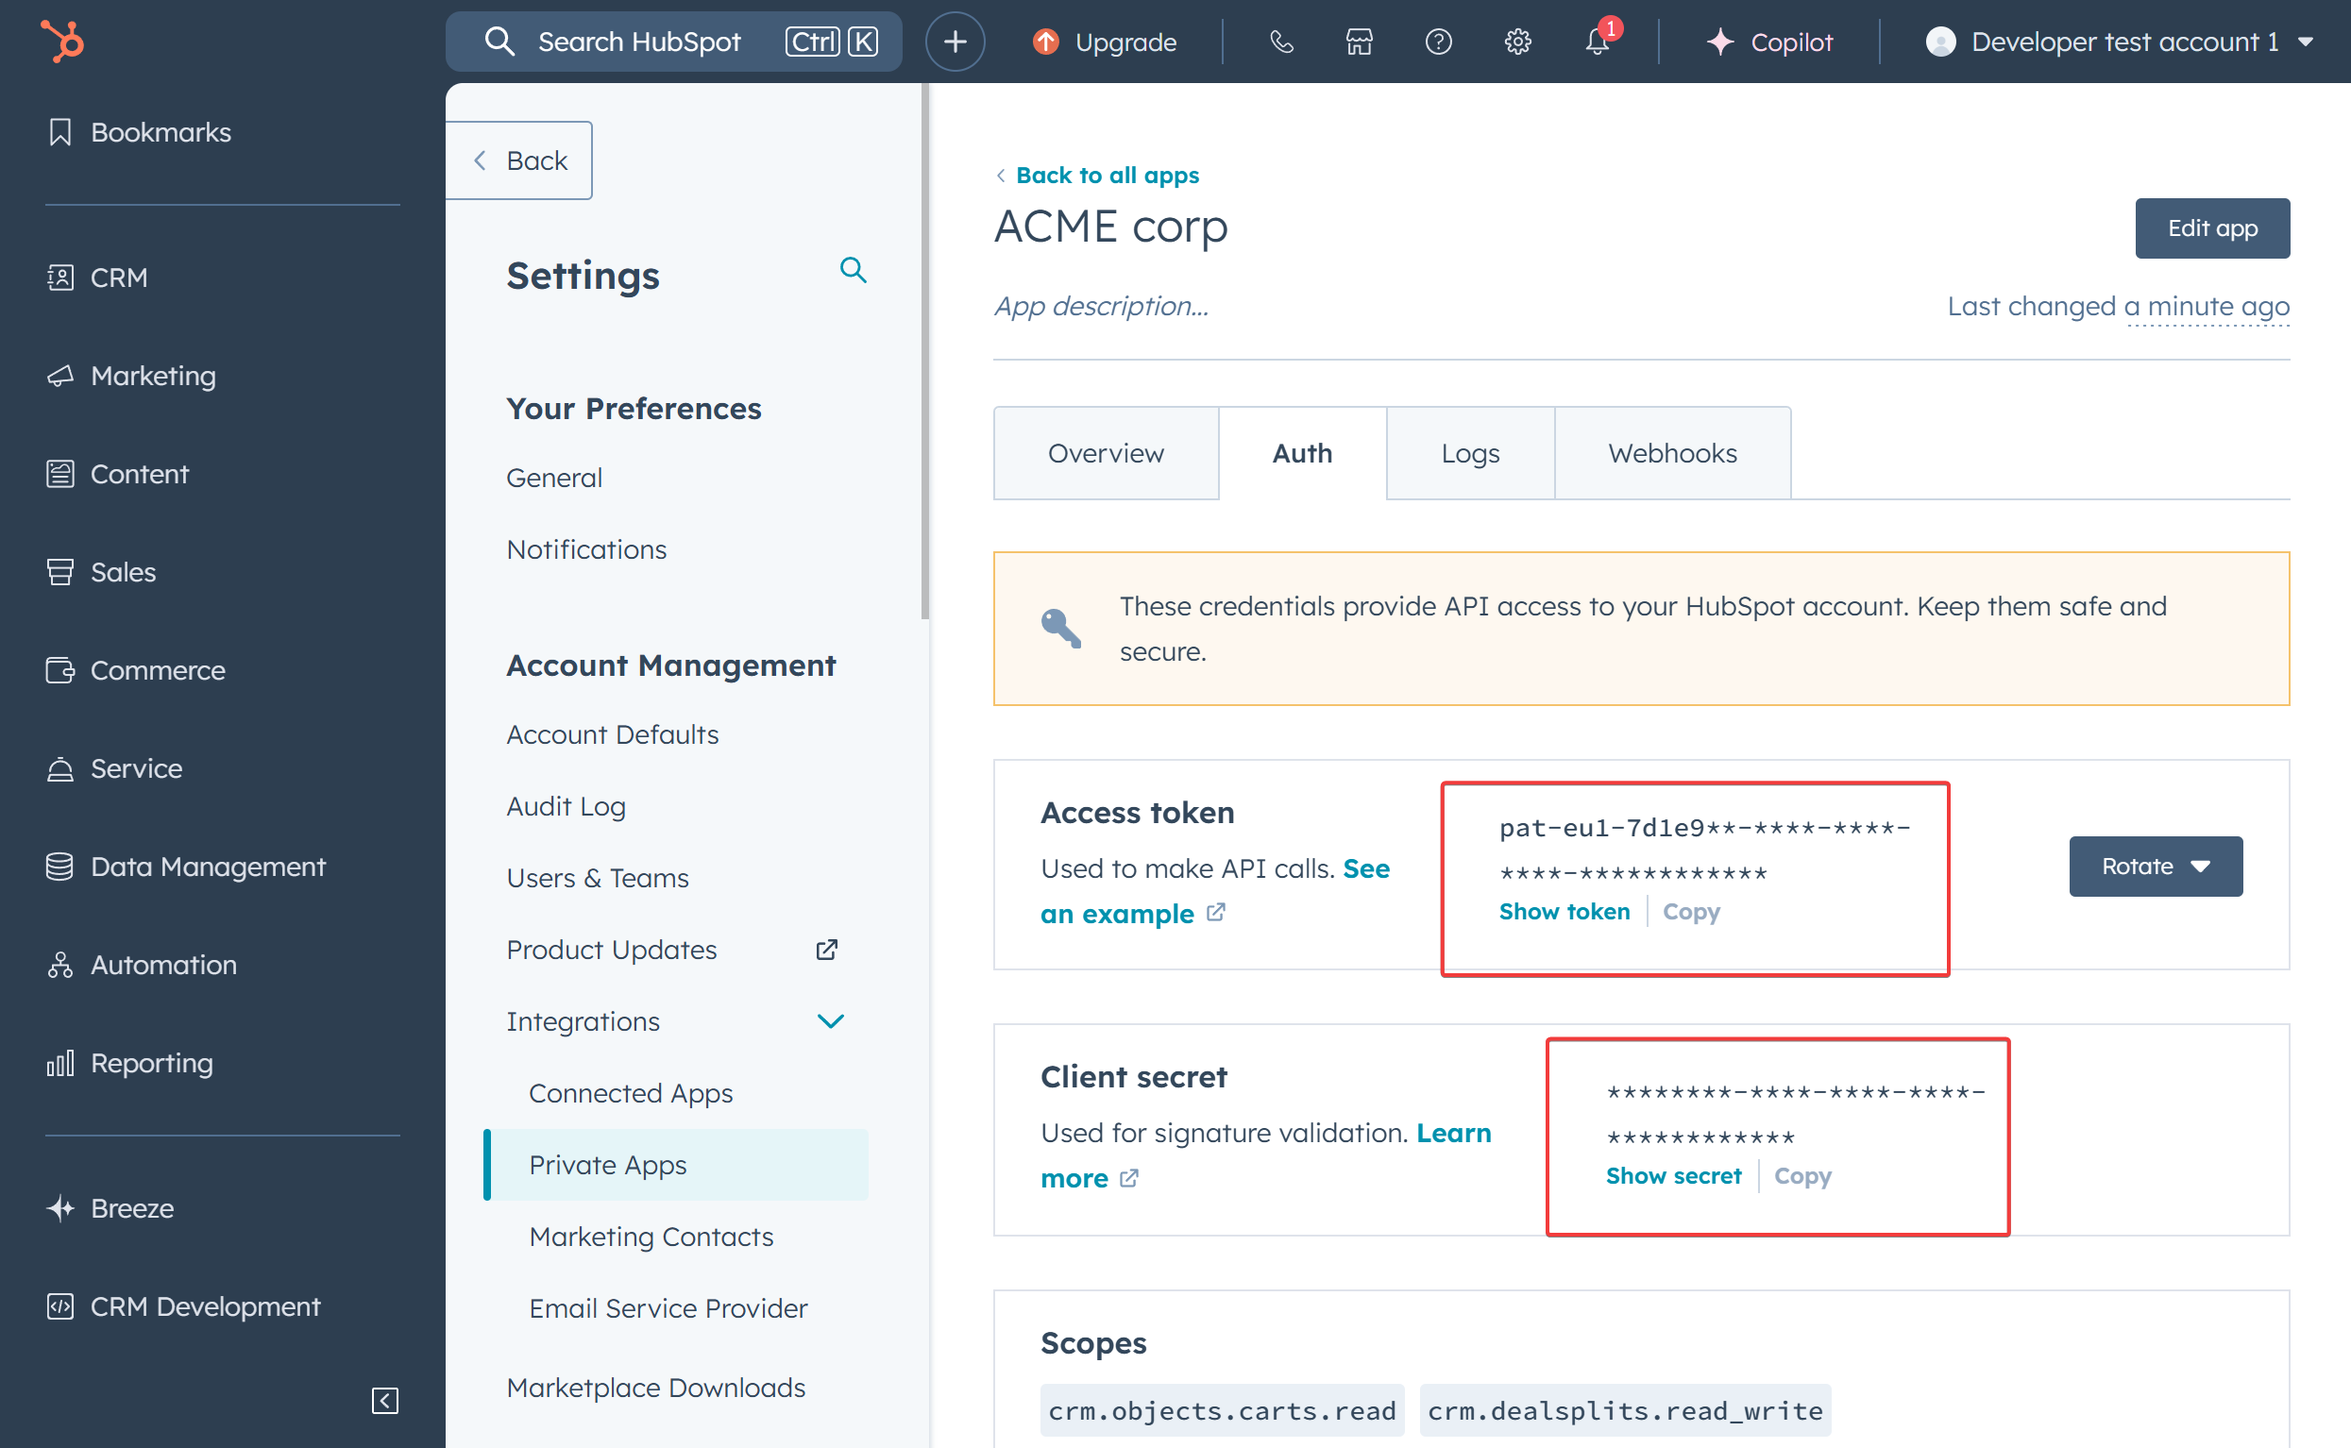
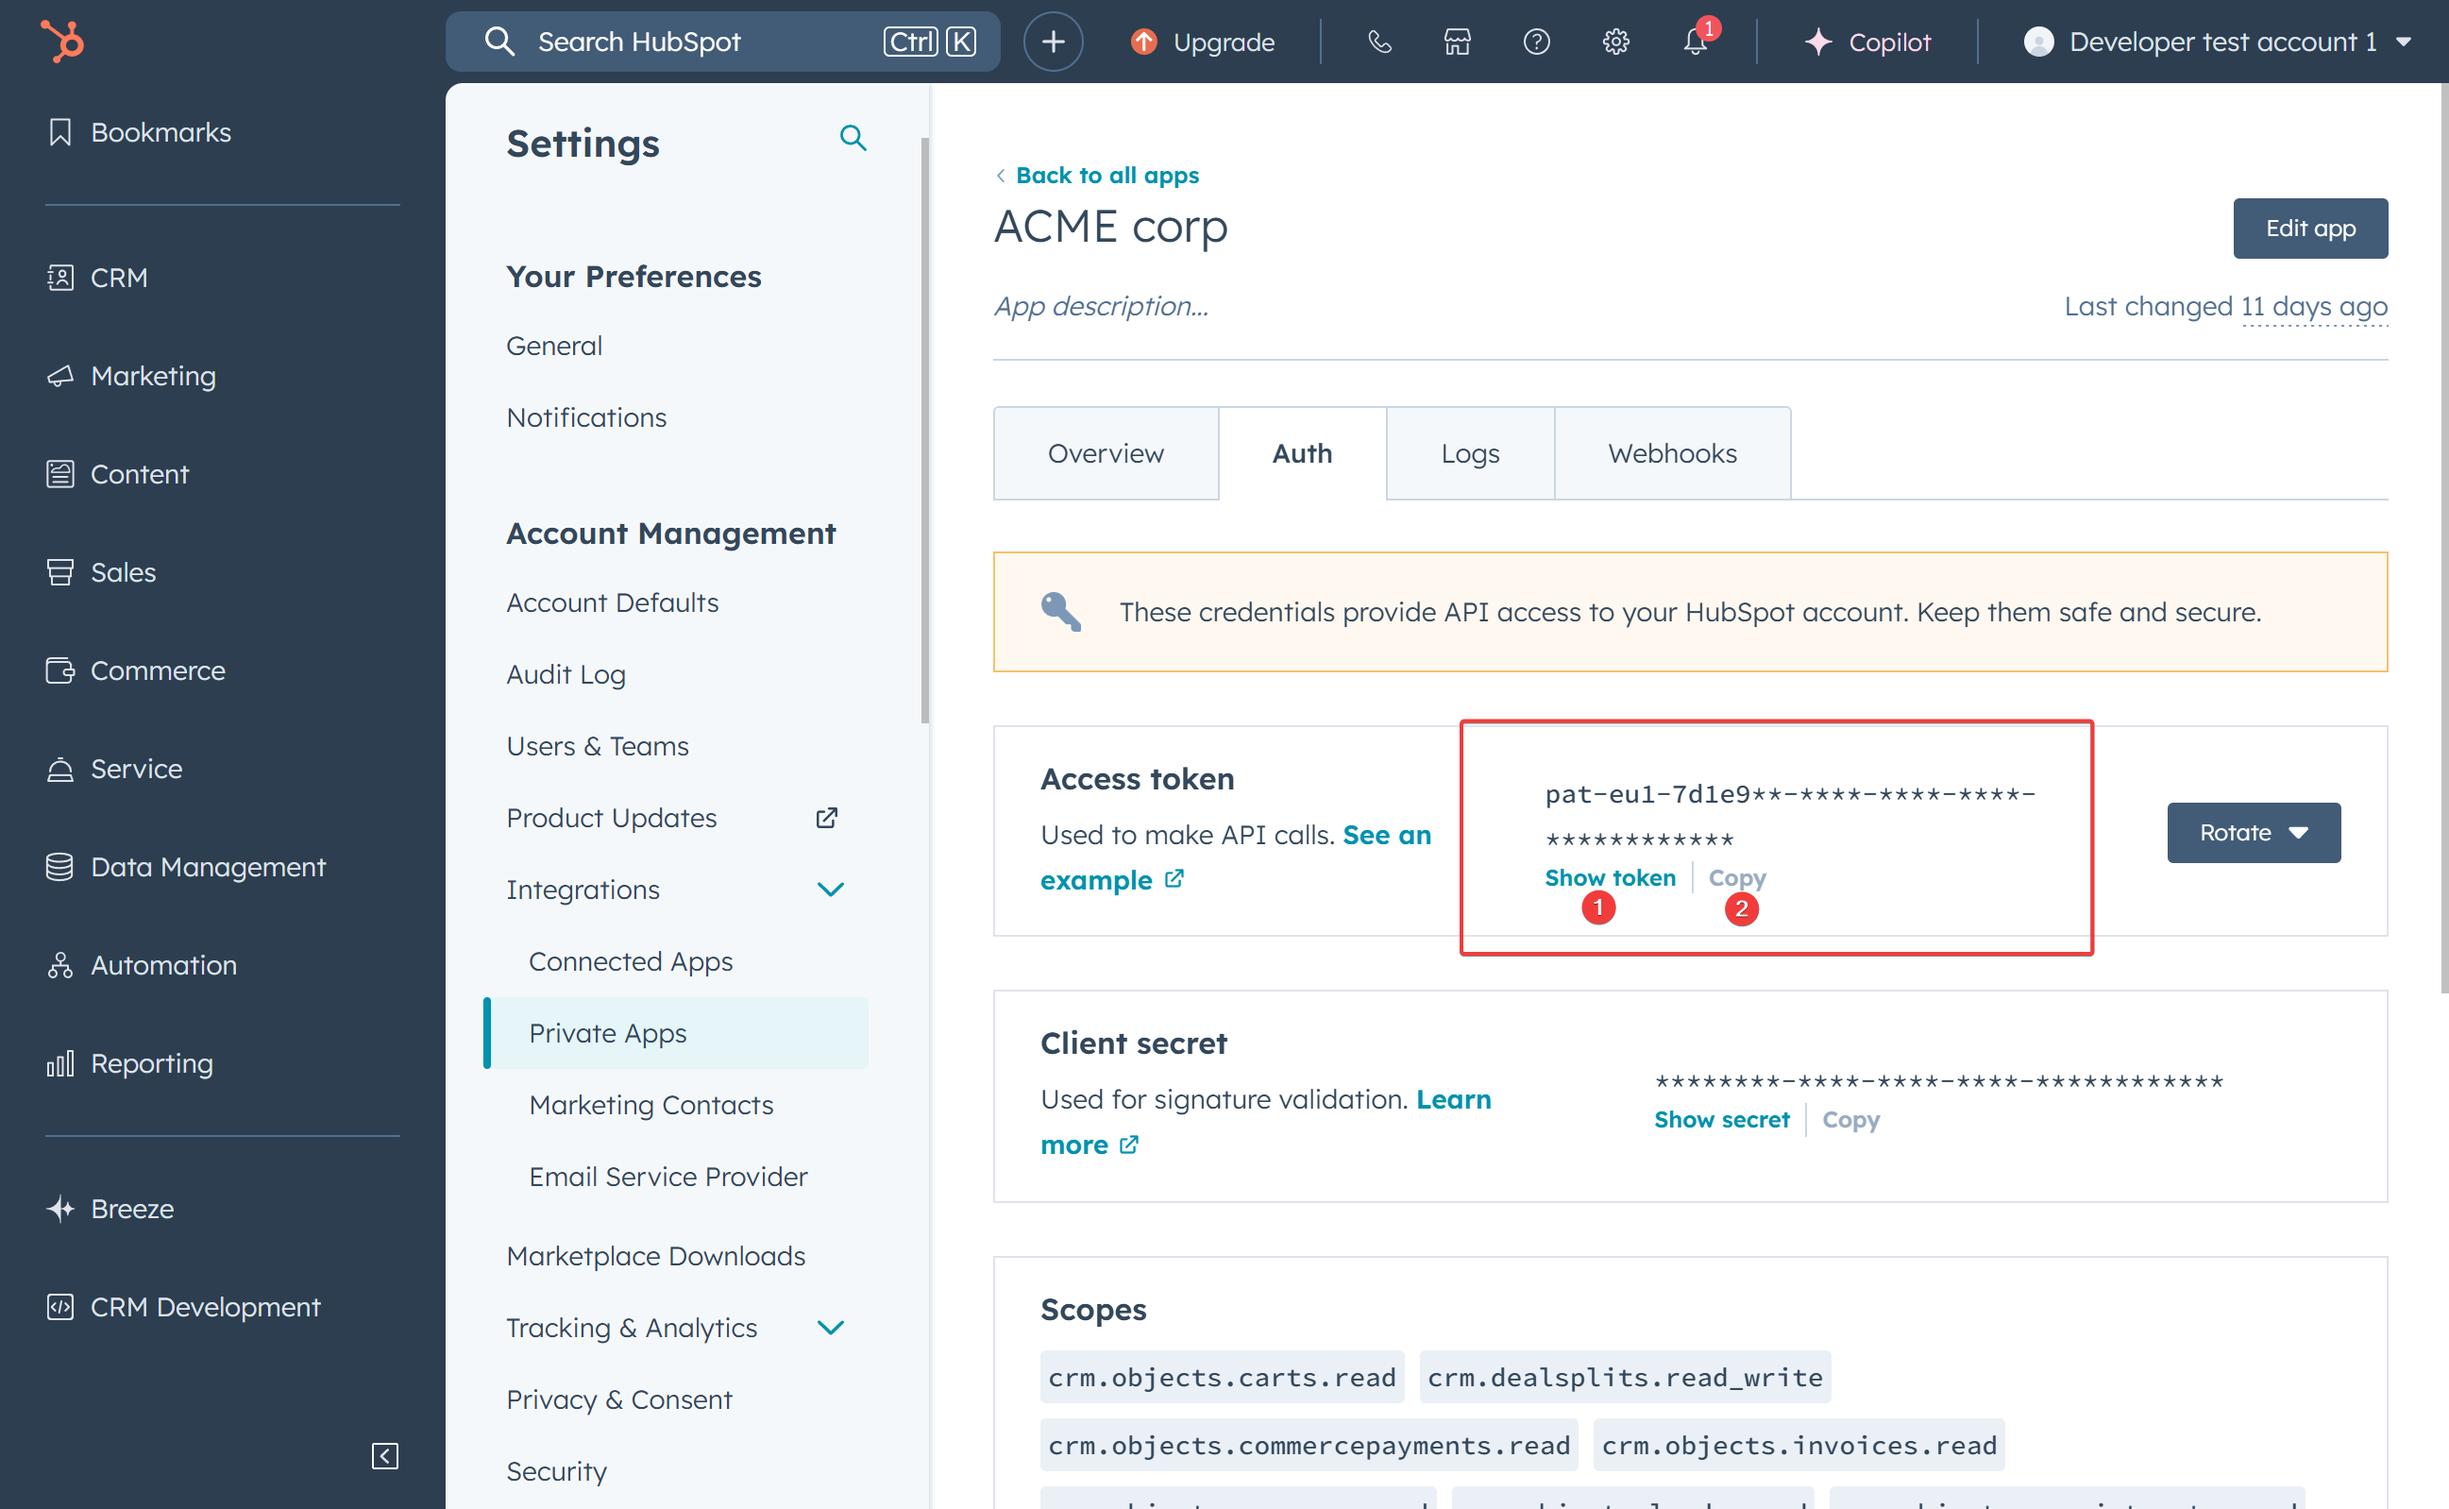
feat: adding new screeshots

diff --git a/docs/Integrations/Hubspot.md b/docs/Integrations/Hubspot.md
@@ -254,7 +254,7 @@ Yes, it’s a few extra clicks — but it’s easy. Just check the boxes and you
 
 6. **You'll see the Access Token and Client Secret (needed for later)**
    - This is super important!
-   - leave this page open to use these two keys later
+   - leave this page open to use this key later
 
 ![Access Token](/img/hubspot-integration/click-on-auth.png)
 ![Access Token](/img/hubspot-integration/access-token-copiying.png)
@@ -318,33 +318,16 @@ Now we'll connect your shiny new HubSpot app to TurboDocx. This is like introduc
 
 6. **Enter your Access Token**
    - Copy the Access Token from your HubSpot private app page and paste it here
-   - Copy the Client Secret from your HubSpot private app page and paste it in the Client Secret field
 
 ![Access Token](/img/hubspot-integration/access-token-copiying.png)
-
-<div style={{display: 'flex', justifyContent: 'center', alignItems: 'center', width: '600px', height: '400px', backgroundColor: '#f8f9fa', border: '2px dashed #dee2e6', borderRadius: '8px', margin: '20px auto', fontSize: '24px', fontWeight: 'bold', color: '#6c757d'}}>
-  Screenshots Coming Soon
-</div>
+![Access Token](/img/hubspot-integration/hubspot-access-token-copied.png)
 
 <br/>
 
 7. **Click "Save Configuration"**
    - Cross your fingers (optional, but recommended!)
 
-<div style={{display: 'flex', justifyContent: 'center', alignItems: 'center', width: '600px', height: '400px', backgroundColor: '#f8f9fa', border: '2px dashed #dee2e6', borderRadius: '8px', margin: '20px auto', fontSize: '24px', fontWeight: 'bold', color: '#6c757d'}}>
-  Screenshots Coming Soon
-</div>
-
-<br/>
-
-### Test Your Connection
-
-8. **Click "Connect to HubSpot"**
-   - This button appears after you save your configuration
-
-<div style={{display: 'flex', justifyContent: 'center', alignItems: 'center', width: '600px', height: '400px', backgroundColor: '#f8f9fa', border: '2px dashed #dee2e6', borderRadius: '8px', margin: '20px auto', fontSize: '24px', fontWeight: 'bold', color: '#6c757d'}}>
-  Screenshots Coming Soon
-</div>
+![Access Token](/img/hubspot-integration/click-save-configuration.png)
 
 <br/>
 
@@ -355,9 +338,7 @@ Now we'll connect your shiny new HubSpot app to TurboDocx. This is like introduc
     - It downloads all your custom HubSpot fields and data
     - It also tests if your access token works
 
-<div style={{display: 'flex', justifyContent: 'center', alignItems: 'center', width: '600px', height: '400px', backgroundColor: '#f8f9fa', border: '2px dashed #dee2e6', borderRadius: '8px', margin: '20px auto', fontSize: '24px', fontWeight: 'bold', color: '#6c757d'}}>
-  Screenshots Coming Soon
-</div>
+![Access Token](/img/hubspot-integration/refresh-fields.png)
 
 <br/>
 
